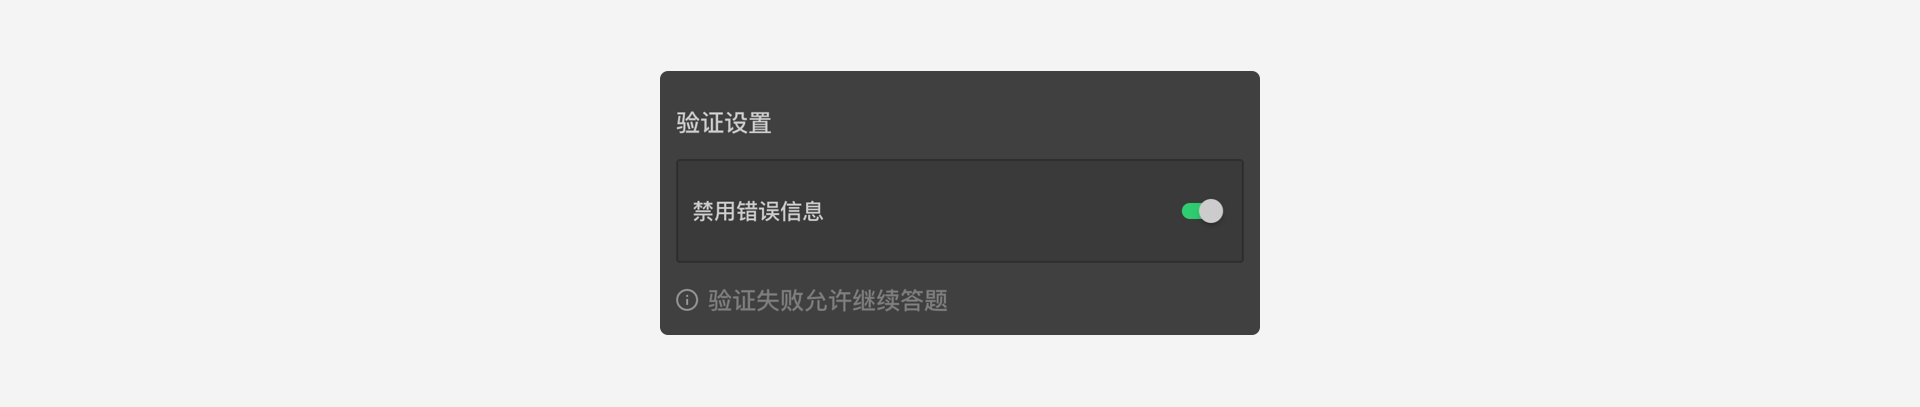
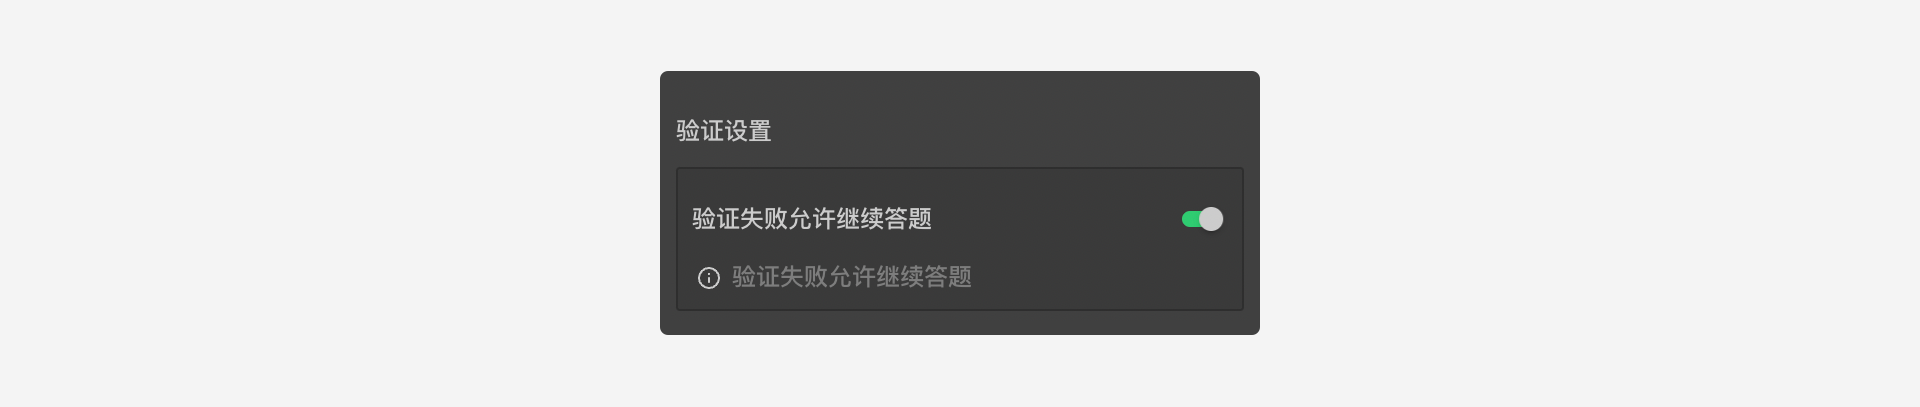
docs: rename

diff --git a/doc/zh-cn/14customValidation/04validationSetting.md b/doc/zh-cn/14customValidation/04validationSetting.md
@@ -1,6 +1,6 @@
 ---
   index: 4
-  tags: [验证设置, 禁用错误信息, 自定义验证]
+  tags: [验证设置, 验证失败允许继续答题, 自定义验证]
   summary: 验证设置可以设定当被访者没有通过验证时，是否显示提示信息。
 
 
@@ -13,13 +13,13 @@
 
 # 验证设置
 
-## 禁用错误信息
+## 验证失败允许继续答题
 
 设置==自定义验证==后，如果没有通过验证，则会显示由验证设置中提供的提示文字信息，随后要求被访者必须修正答案直到正确通过验证。
 
 <img src='./assets/04validationSetting/no-prevent.png'>
 
-但是也可以开启==禁用错误信息==隐藏这个错误消息，没有通过验证时既不会显示错误提示，也不会阻止他们继续下一题。这种情况下，这道题目会被标记为==自定义验证失败==的状态（参见[隐式变量](../16variable/08implictVariable.md)），该状态在后续问卷中可以用于进行其他操作，比如：记录被访者答题错误的次数，超过限定值则判定为没有认真作答，并触发对应处理机制。
+但是也可以开启==验证失败允许继续答题==隐藏这个错误消息，没有通过验证时既不会显示错误提示，也不会阻止他们继续下一题。这种情况下，这道题目会被标记为==自定义验证失败==的状态（参见[隐式变量](../16variable/08implictVariable.md)），该状态在后续问卷中可以用于进行其他操作，比如：记录被访者答题错误的次数，超过限定值则判定为没有认真作答，并触发对应处理机制。
 
 > 更多关于==自定义验证失败==的内容参见[隐式变量](../16variable/08implictVariable.md)。
 

diff --git a/backup/design/node-setting/custom-validation.md b/backup/design/node-setting/custom-validation.md
@@ -11,7 +11,7 @@
 
 题目的验证机制用于设定问卷回复规则，避免接收被访者输入无效的答案。
 
-`自定义验证`在节点属性编辑栏的`设置`面板中，打开后可以看到其中包含`接口请求验证`和`内置逻辑验证`两个开关，以及一个`禁用错误信息`的开关。
+`自定义验证`在节点属性编辑栏的`设置`面板中，打开后可以看到其中包含`接口请求验证`和`内置逻辑验证`两个开关，以及一个`验证失败允许继续答题`的开关。
 <img src='../../assets/snapshots/node-setting/custom-validation.png'>
 
 ## 接口请求验证：
@@ -29,7 +29,7 @@
   > 内置逻辑运算工作方式参见[逻辑验证](../logic/validation.md)。
 
 # 验证设置
-## 禁用错误信息：
+## 验证失败允许继续答题：
 设置`自定义验证`后，如果没有通过验证，则会显示由验证设置中提供的提示文字信息，随后要求被访者必须修正答案直到正确通过验证。
 
 但是也可以隐藏这个错误消息，没有通过验证时既不会显示错误提示，也不会阻止他们继续下一题。这种情况下，这道题目会被标记为`自定义验证失败`的状态（参见[隐式变量](../variable/implicit.md)），该状态在后续问卷中可以用于进行其他操作，比如：记录被访者答题错误的次数，超过限定值则判定为没有认真作答，并触发对应处理机制。

diff --git a/doc/zh-cn/14customValidation/01customValidation.md b/doc/zh-cn/14customValidation/01customValidation.md
@@ -15,7 +15,7 @@
 
 题目的验证机制用于设定问卷回复规则，避免接收被访者输入无效的答案。
 
-==自定义验证==在节点属性编辑栏的==设置==面板中，打开后可以看到其中包含==接口请求验证==和==内置逻辑验证==两个开关，以及一个==禁用错误信息==的开关。
+==自定义验证==在节点属性编辑栏的==设置==面板中，打开后可以看到其中包含==接口请求验证==和==内置逻辑验证==两个开关，以及一个==验证失败允许继续答题==的开关。
 
 <img src='./assets/01customValidation/custom-validation.png'>
 

diff --git a/questionaireNodes/commonDocs/nodeUserDefinedInterface.md b/questionaireNodes/commonDocs/nodeUserDefinedInterface.md
@@ -18,7 +18,7 @@
 
 **验证设置：**
 
-* 禁用错误消息
+* 验证失败允许继续答题
 用于控制是否提示受访者在当前问题中输入了错误的回答。
 开启：当被访者输入错误回答时，提示被访者，并且在输入正确答案前无法进入下一题；
 关闭：当被访者输入错误回答时，不提示被访者，并且可以进入下一题；
